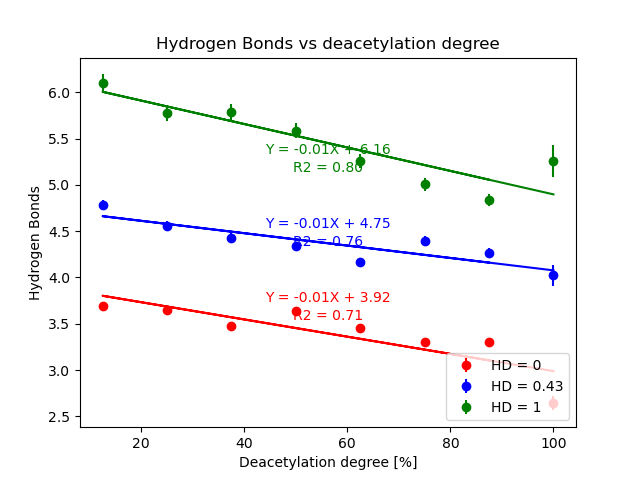
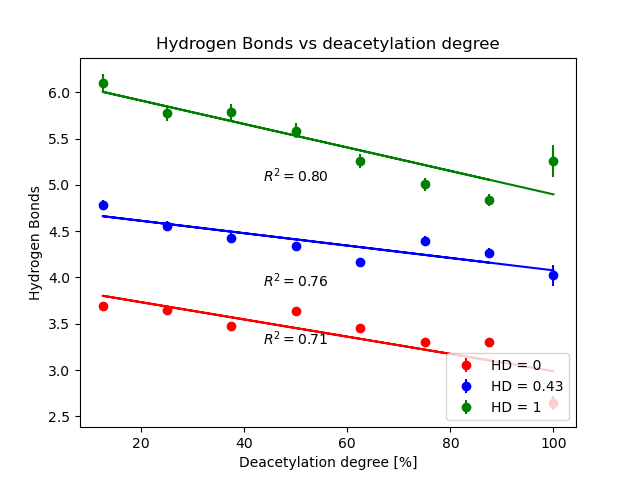
Adding fixed figures

diff --git a/main.py b/main.py
@@ -7,7 +7,7 @@ from sklearn.metrics import r2_score
 from os.path import join
 import glob
 
-def read_data_bindenergy(mypath: str,interaction_type: str) -> dict:
+def read_data_for_interation(mypath: str,interaction_type: str) -> dict:
     """
     Binding energy extraction, i.e. second column from *bindenergy_Mg.tab files.
     Note: there are ~1500 files depending on the case. There are three cases where the is one variant of 
@@ -20,6 +20,9 @@ def read_data_bindenergy(mypath: str,interaction_type: str) -> dict:
     """
     filenames = next(walk(mypath), (None, None, []))[2]  # find all files from directory [] if no file
     pattern = '[1-9]\d{2,3}' # find values that repersent different deacetylation degrees 125:1000:125
+    # Analyze deacetylation degree: match pattern below (add new variable to function) and goes over all 
+    # directories Wyniki_* to extract specific DD 
+    #pattern = rf'{pattern_variable}'
     digits = np.unique([re.findall(pattern, filename)[0] for filename in filenames])
     result = {}
     # create dictionary of all binding energies from each deacetylation degree
@@ -42,6 +45,9 @@ def read_data_bindenergy(mypath: str,interaction_type: str) -> dict:
     return result
 
 def create_figure(datasets: list, HD: list, interaction_type: str) -> None:
+    """
+    Drawing the data with best fitting line. Due to dense data set it is advised to plot max 4 lines
+    """
     colors = ['red', 'blue', 'green', 'orange', 'purple', 'pink']  # Define colors for different datasets
     num_datasets = len(datasets)
     if num_datasets > len(colors):
@@ -75,10 +81,9 @@ def create_figure(datasets: list, HD: list, interaction_type: str) -> None:
         plt.plot(x_values, y_pred, color=colors[i], linestyle='-')
 
         # Add equation and R2 value to the plot
-        equation = f'Y = {slope:.2f}X + {intercept:.2f}'
-        r_squared_text = f'R2 = {r_squared:.2f}'
-        plt.text(0.5, 0.35 + 0.2*i, equation, ha='center', va='center', transform=plt.gca().transAxes, fontsize=10, color=colors[i])
-        plt.text(0.5, 0.30 + 0.2*i, r_squared_text, ha='center', va='center', transform=plt.gca().transAxes, fontsize=10, color=colors[i])
+        #equation = f'Y = {slope:.4f}X + {intercept:.2f}'
+        # Add R2 value below the first point
+        plt.text(x_values[6], 0.95 * y_means[6], r'$R^2 = {:.2f}$'.format(r_squared), fontsize=10, ha='center')
 
     plt.title(interaction_type + " vs deacetylation degree")
     plt.xlabel("Deacetylation degree [%]")
@@ -89,11 +94,14 @@ def create_figure(datasets: list, HD: list, interaction_type: str) -> None:
     plt.savefig(path)
 
 def deacetylation_degree_analysis():
+    """
+    Extracting data for a given interaction type for selected chitosan deacetylation degrees
+    """
     pass
 
 def hydroxylation_degree_analysis(HD: list, interaction_type: str) -> list:
     """
-    Extracting data for a given interaction type for selected hydroxylation degrees
+    Extracting data for a given interaction type for selected colagen hydroxylation degrees
     """
     HD_cases = ["Wyniki_" + str(int(42 * x)) + "HYP" for x in HD] 
     mypath = r"C:\Users\piotr\Downloads\Collagen+Chitosan\Collagen+Chitosan"
@@ -102,7 +110,7 @@ def hydroxylation_degree_analysis(HD: list, interaction_type: str) -> list:
     filtered_directories = [join(mypath, path, subdir) for path in HD_cases]
     data = []
     for element in filtered_directories:
-        d = read_data_bindenergy(element, interaction_type)
+        d = read_data_for_interation(element, interaction_type)
         data.append(d)
     return data
 
@@ -111,7 +119,7 @@ def amino_acids(a):
    
 
 def main():
-    interaction_type = "Hydrogen Bonds"
+    interaction_type = "Ionic Interactions"
     HD = [0, 0.43, 1]
     f1 = hydroxylation_degree_analysis(HD, interaction_type)
     create_figure(f1, HD, interaction_type)

diff --git a/README.md b/README.md
@@ -26,8 +26,10 @@ The subsequent phenomenon, chitosan deacetylation, was illustrated in Figure 1b.
 
 The results obtained exhibit a level of intuitiveness and alignment with certain experimental findings documented in existing literature. The collagen structures employed in this study depict a segment of human collagen type II, featuring a tertiary structural arrangement and the presence of critical residues and fragments, notably the prevalent triplet PRO-HYP-GLY. Despite the relatively short nature of the utilized peptide helices, they appear to offer sufficient insight into how the ratio of HYP to PRO can impact chitosan's affinity for collagen. However, certain aspects warrant further exploration in subsequent studies, such as the influence of the quantity of individual residues on collagen's affinity for chitosan. This aspect seems particularly significant within the framework of collagen's polyelectrolytic nature.
 
-![Binding Energy](Files/BindingEnergy_vs_dd.png)
-
+<img src="Files/BindingEnergy_vs_dd.png" alt="Binding Energy" width="200">
+![HydBond](Files/HydrogenBonds_vs_dd.png)
+![HP](Files/HydrophobicInteractions_vs_dd.png)
+![Ion](Files/IonicInteractions_vs_dd.png)
 ## Description 
 
 The script performs the following tasks:
